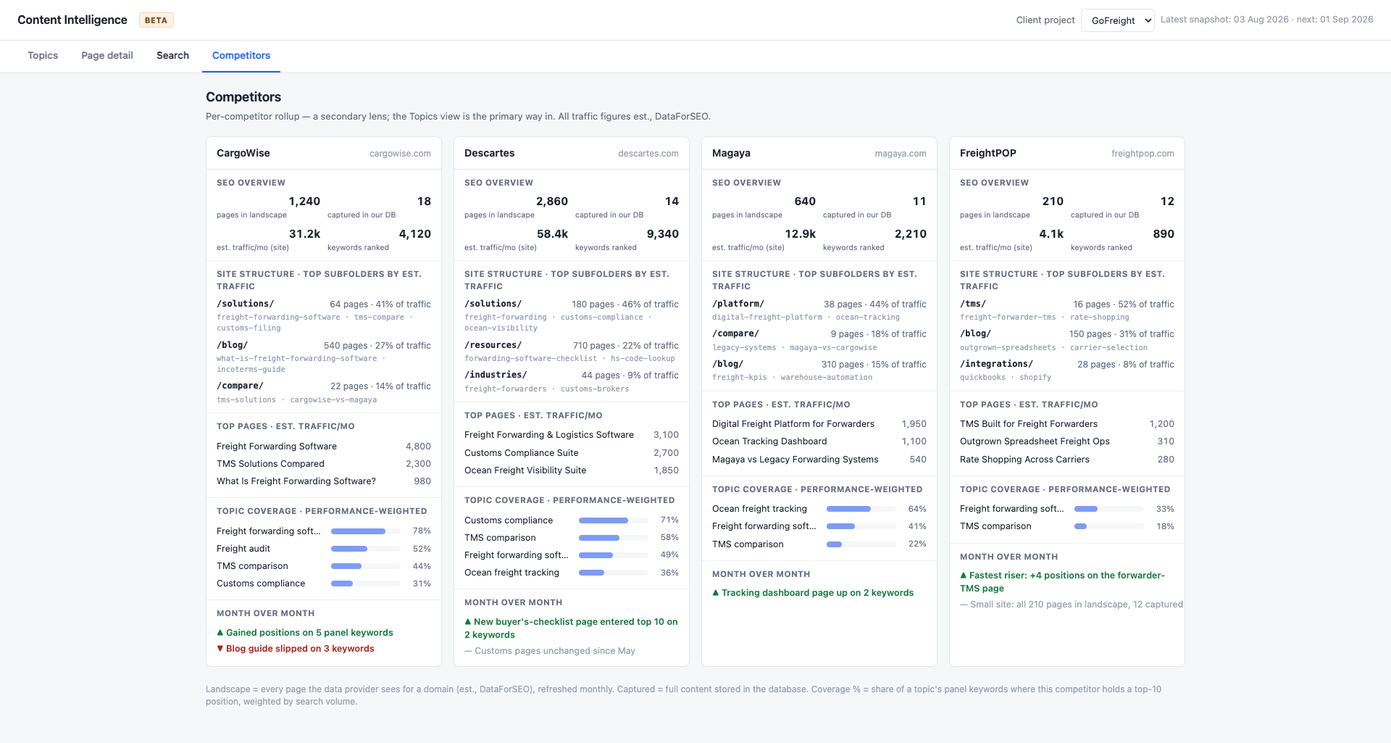
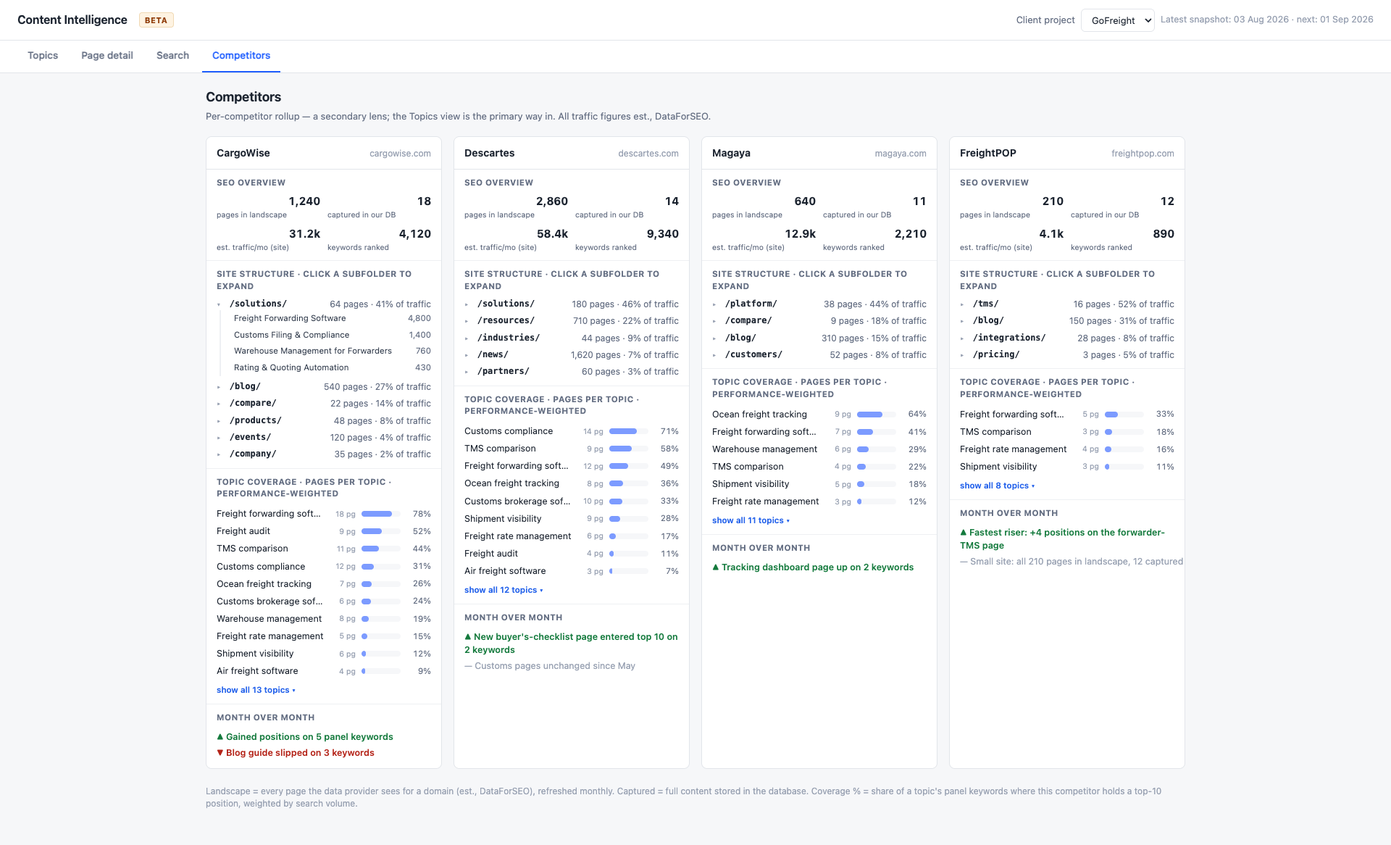
Rev 6.3b: competitor card refit — expandable site structure w/ page titles, topic coverage to ~10 w/ counts + show-all, top-pages block removed

diff --git a/novastacks/content-intelligence/mockup/ui-mockup.html b/novastacks/content-intelligence/mockup/ui-mockup.html
@@ -238,10 +238,18 @@
   .seo-grid { display: grid; grid-template-columns: 1fr 1fr; gap: 8px 10px; }
   .seo-grid .cell .num { display: block; font-size: 15px; font-weight: 700; }
   .seo-grid .cell .k { display: block; font-size: 10.5px; color: var(--muted); }
-  .folder-row { display: flex; justify-content: space-between; gap: 8px; margin-top: 7px; font-size: 12px; }
-  .folder-row .f { font-family: ui-monospace, monospace; font-weight: 650; }
-  .folder-row .fc { color: var(--muted); white-space: nowrap; }
-  .slugs { font-family: ui-monospace, monospace; font-size: 10.5px; color: var(--faint); margin-top: 2px; overflow-wrap: anywhere; }
+  .bar-row .cnt { color: var(--faint); font-size: 10.5px; white-space: nowrap; min-width: 34px; text-align: right; }
+  details.folder { margin-top: 6px; }
+  details.folder summary { display: flex; justify-content: space-between; gap: 8px; font-size: 12px; cursor: pointer; list-style: none; }
+  details.folder summary::before { content: "▸"; color: var(--faint); margin-right: 4px; }
+  details.folder[open] summary::before { content: "▾"; }
+  details.folder summary .f { font-family: ui-monospace, monospace; font-weight: 650; flex: 1; }
+  details.folder summary .fc { color: var(--muted); white-space: nowrap; }
+  .fpage { display: flex; justify-content: space-between; gap: 8px; font-size: 11.5px; padding: 3px 0 3px 18px; border-left: 2px solid #eef0f3; margin-left: 4px; }
+  .fpage .pt { color: #374151; }
+  .fpage .pv { color: var(--muted); white-space: nowrap; }
+  details.more-topics summary { font-size: 11.5px; font-weight: 600; color: #2563eb; cursor: pointer; list-style: none; margin-top: 6px; }
+  details.more-topics[open] summary { display: none; }
   .comp-sec { padding: 10px 14px; border-bottom: 1px solid #eef0f3; }
   .comp-sec:last-child { border-bottom: none; }
   .comp-sec h4 { font-size: 11.5px; color: var(--muted); text-transform: uppercase; letter-spacing: 0.04em; margin-bottom: 7px; }
@@ -560,26 +568,46 @@
         </div>
       </div>
       <div class="comp-sec">
-        <h4>Site structure · top subfolders by est. traffic</h4>
-        <div class="folder-row"><span class="f">/solutions/</span><span class="fc">64 pages · 41% of traffic</span></div>
-        <div class="slugs">freight-forwarding-software · tms-compare · customs-filing</div>
-        <div class="folder-row"><span class="f">/blog/</span><span class="fc">540 pages · 27% of traffic</span></div>
-        <div class="slugs">what-is-freight-forwarding-software · incoterms-guide</div>
-        <div class="folder-row"><span class="f">/compare/</span><span class="fc">22 pages · 14% of traffic</span></div>
-        <div class="slugs">tms-solutions · cargowise-vs-magaya</div>
+        <h4>Site structure · click a subfolder to expand</h4>
+        <details class="folder" open>
+          <summary><span class="f">/solutions/</span><span class="fc">64 pages · 41% of traffic</span></summary>
+          <div class="fpage"><span class="pt">Freight Forwarding Software</span><span class="pv">4,800</span></div>
+          <div class="fpage"><span class="pt">Customs Filing &amp; Compliance</span><span class="pv">1,400</span></div>
+          <div class="fpage"><span class="pt">Warehouse Management for Forwarders</span><span class="pv">760</span></div>
+          <div class="fpage"><span class="pt">Rating &amp; Quoting Automation</span><span class="pv">430</span></div>
+        </details>
+        <details class="folder">
+          <summary><span class="f">/blog/</span><span class="fc">540 pages · 27% of traffic</span></summary>
+          <div class="fpage"><span class="pt">What Is Freight Forwarding Software? A Guide</span><span class="pv">980</span></div>
+          <div class="fpage"><span class="pt">Incoterms 2026: The Complete Guide</span><span class="pv">720</span></div>
+        </details>
+        <details class="folder">
+          <summary><span class="f">/compare/</span><span class="fc">22 pages · 14% of traffic</span></summary>
+          <div class="fpage"><span class="pt">TMS Solutions Compared</span><span class="pv">2,300</span></div>
+          <div class="fpage"><span class="pt">CargoWise vs Magaya</span><span class="pv">610</span></div>
+        </details>
+        <details class="folder"><summary><span class="f">/products/</span><span class="fc">48 pages · 8% of traffic</span></summary><div class="fpage"><span class="pt">CargoWise One Platform</span><span class="pv">390</span></div></details>
+        <details class="folder"><summary><span class="f">/events/</span><span class="fc">120 pages · 4% of traffic</span></summary><div class="fpage"><span class="pt">CargoWise Horizons 2026</span><span class="pv">180</span></div></details>
+        <details class="folder"><summary><span class="f">/company/</span><span class="fc">35 pages · 2% of traffic</span></summary><div class="fpage"><span class="pt">About WiseTech Global</span><span class="pv">95</span></div></details>
       </div>
       <div class="comp-sec">
-        <h4>Top pages · est. traffic/mo</h4>
-        <div class="mini-row"><span class="t">Freight Forwarding Software</span><span class="v">4,800</span></div>
-        <div class="mini-row"><span class="t">TMS Solutions Compared</span><span class="v">2,300</span></div>
-        <div class="mini-row"><span class="t">What Is Freight Forwarding Software?</span><span class="v">980</span></div>
-      </div>
-      <div class="comp-sec">
-        <h4>Topic coverage · performance-weighted</h4>
-        <div class="bar-row"><span class="lbl">Freight forwarding software</span><span class="bar"><i style="width:78%"></i></span><span class="pct">78%</span></div>
-        <div class="bar-row"><span class="lbl">Freight audit</span><span class="bar"><i style="width:52%"></i></span><span class="pct">52%</span></div>
-        <div class="bar-row"><span class="lbl">TMS comparison</span><span class="bar"><i style="width:44%"></i></span><span class="pct">44%</span></div>
-        <div class="bar-row"><span class="lbl">Customs compliance</span><span class="bar"><i style="width:31%"></i></span><span class="pct">31%</span></div>
+        <h4>Topic coverage · pages per topic · performance-weighted</h4>
+        <div class="bar-row"><span class="lbl">Freight forwarding software</span><span class="cnt">18 pg</span><span class="bar"><i style="width:78%"></i></span><span class="pct">78%</span></div>
+        <div class="bar-row"><span class="lbl">Freight audit</span><span class="cnt">9 pg</span><span class="bar"><i style="width:52%"></i></span><span class="pct">52%</span></div>
+        <div class="bar-row"><span class="lbl">TMS comparison</span><span class="cnt">11 pg</span><span class="bar"><i style="width:44%"></i></span><span class="pct">44%</span></div>
+        <div class="bar-row"><span class="lbl">Customs compliance</span><span class="cnt">12 pg</span><span class="bar"><i style="width:31%"></i></span><span class="pct">31%</span></div>
+        <div class="bar-row"><span class="lbl">Ocean freight tracking</span><span class="cnt">7 pg</span><span class="bar"><i style="width:26%"></i></span><span class="pct">26%</span></div>
+        <div class="bar-row"><span class="lbl">Customs brokerage software</span><span class="cnt">6 pg</span><span class="bar"><i style="width:24%"></i></span><span class="pct">24%</span></div>
+        <div class="bar-row"><span class="lbl">Warehouse management</span><span class="cnt">8 pg</span><span class="bar"><i style="width:19%"></i></span><span class="pct">19%</span></div>
+        <div class="bar-row"><span class="lbl">Freight rate management</span><span class="cnt">5 pg</span><span class="bar"><i style="width:15%"></i></span><span class="pct">15%</span></div>
+        <div class="bar-row"><span class="lbl">Shipment visibility</span><span class="cnt">6 pg</span><span class="bar"><i style="width:12%"></i></span><span class="pct">12%</span></div>
+        <div class="bar-row"><span class="lbl">Air freight software</span><span class="cnt">4 pg</span><span class="bar"><i style="width:9%"></i></span><span class="pct">9%</span></div>
+        <details class="more-topics">
+          <summary>show all 13 topics ▾</summary>
+          <div class="bar-row"><span class="lbl">Freight billing software</span><span class="cnt">3 pg</span><span class="bar"><i style="width:7%"></i></span><span class="pct">7%</span></div>
+          <div class="bar-row"><span class="lbl">Landed cost calculation</span><span class="cnt">2 pg</span><span class="bar"><i style="width:5%"></i></span><span class="pct">5%</span></div>
+          <div class="bar-row"><span class="lbl">Bonded warehouse software</span><span class="cnt">2 pg</span><span class="bar"><i style="width:3%"></i></span><span class="pct">3%</span></div>
+        </details>
       </div>
       <div class="comp-sec">
         <h4>Month over month</h4>
@@ -600,26 +628,39 @@
         </div>
       </div>
       <div class="comp-sec">
-        <h4>Site structure · top subfolders by est. traffic</h4>
-        <div class="folder-row"><span class="f">/solutions/</span><span class="fc">180 pages · 46% of traffic</span></div>
-        <div class="slugs">freight-forwarding · customs-compliance · ocean-visibility</div>
-        <div class="folder-row"><span class="f">/resources/</span><span class="fc">710 pages · 22% of traffic</span></div>
-        <div class="slugs">forwarding-software-checklist · hs-code-lookup</div>
-        <div class="folder-row"><span class="f">/industries/</span><span class="fc">44 pages · 9% of traffic</span></div>
-        <div class="slugs">freight-forwarders · customs-brokers</div>
+        <h4>Site structure · click a subfolder to expand</h4>
+        <details class="folder">
+          <summary><span class="f">/solutions/</span><span class="fc">180 pages · 46% of traffic</span></summary>
+          <div class="fpage"><span class="pt">Freight Forwarding &amp; Logistics Software</span><span class="pv">3,100</span></div>
+          <div class="fpage"><span class="pt">Customs Compliance Suite</span><span class="pv">2,700</span></div>
+          <div class="fpage"><span class="pt">Ocean Freight Visibility Suite</span><span class="pv">1,850</span></div>
+        </details>
+        <details class="folder">
+          <summary><span class="f">/resources/</span><span class="fc">710 pages · 22% of traffic</span></summary>
+          <div class="fpage"><span class="pt">Choosing Forwarding Software: Buyer's Checklist</span><span class="pv">720</span></div>
+          <div class="fpage"><span class="pt">HS Code Lookup Tool</span><span class="pv">640</span></div>
+        </details>
+        <details class="folder"><summary><span class="f">/industries/</span><span class="fc">44 pages · 9% of traffic</span></summary><div class="fpage"><span class="pt">Solutions for Freight Forwarders</span><span class="pv">410</span></div></details>
+        <details class="folder"><summary><span class="f">/news/</span><span class="fc">1,620 pages · 7% of traffic</span></summary><div class="fpage"><span class="pt">Descartes Acquires OCR Vision Co</span><span class="pv">120</span></div></details>
+        <details class="folder"><summary><span class="f">/partners/</span><span class="fc">60 pages · 3% of traffic</span></summary><div class="fpage"><span class="pt">Partner Directory</span><span class="pv">85</span></div></details>
       </div>
       <div class="comp-sec">
-        <h4>Top pages · est. traffic/mo</h4>
-        <div class="mini-row"><span class="t">Freight Forwarding &amp; Logistics Software</span><span class="v">3,100</span></div>
-        <div class="mini-row"><span class="t">Customs Compliance Suite</span><span class="v">2,700</span></div>
-        <div class="mini-row"><span class="t">Ocean Freight Visibility Suite</span><span class="v">1,850</span></div>
-      </div>
-      <div class="comp-sec">
-        <h4>Topic coverage · performance-weighted</h4>
-        <div class="bar-row"><span class="lbl">Customs compliance</span><span class="bar"><i style="width:71%"></i></span><span class="pct">71%</span></div>
-        <div class="bar-row"><span class="lbl">TMS comparison</span><span class="bar"><i style="width:58%"></i></span><span class="pct">58%</span></div>
-        <div class="bar-row"><span class="lbl">Freight forwarding software</span><span class="bar"><i style="width:49%"></i></span><span class="pct">49%</span></div>
-        <div class="bar-row"><span class="lbl">Ocean freight tracking</span><span class="bar"><i style="width:36%"></i></span><span class="pct">36%</span></div>
+        <h4>Topic coverage · pages per topic · performance-weighted</h4>
+        <div class="bar-row"><span class="lbl">Customs compliance</span><span class="cnt">14 pg</span><span class="bar"><i style="width:71%"></i></span><span class="pct">71%</span></div>
+        <div class="bar-row"><span class="lbl">TMS comparison</span><span class="cnt">9 pg</span><span class="bar"><i style="width:58%"></i></span><span class="pct">58%</span></div>
+        <div class="bar-row"><span class="lbl">Freight forwarding software</span><span class="cnt">12 pg</span><span class="bar"><i style="width:49%"></i></span><span class="pct">49%</span></div>
+        <div class="bar-row"><span class="lbl">Ocean freight tracking</span><span class="cnt">8 pg</span><span class="bar"><i style="width:36%"></i></span><span class="pct">36%</span></div>
+        <div class="bar-row"><span class="lbl">Customs brokerage software</span><span class="cnt">10 pg</span><span class="bar"><i style="width:33%"></i></span><span class="pct">33%</span></div>
+        <div class="bar-row"><span class="lbl">Shipment visibility</span><span class="cnt">9 pg</span><span class="bar"><i style="width:28%"></i></span><span class="pct">28%</span></div>
+        <div class="bar-row"><span class="lbl">Freight rate management</span><span class="cnt">6 pg</span><span class="bar"><i style="width:17%"></i></span><span class="pct">17%</span></div>
+        <div class="bar-row"><span class="lbl">Freight audit</span><span class="cnt">4 pg</span><span class="bar"><i style="width:11%"></i></span><span class="pct">11%</span></div>
+        <div class="bar-row"><span class="lbl">Air freight software</span><span class="cnt">3 pg</span><span class="bar"><i style="width:7%"></i></span><span class="pct">7%</span></div>
+        <details class="more-topics">
+          <summary>show all 12 topics ▾</summary>
+          <div class="bar-row"><span class="lbl">Warehouse management</span><span class="cnt">3 pg</span><span class="bar"><i style="width:6%"></i></span><span class="pct">6%</span></div>
+          <div class="bar-row"><span class="lbl">Landed cost calculation</span><span class="cnt">2 pg</span><span class="bar"><i style="width:4%"></i></span><span class="pct">4%</span></div>
+          <div class="bar-row"><span class="lbl">Freight billing software</span><span class="cnt">1 pg</span><span class="bar"><i style="width:2%"></i></span><span class="pct">2%</span></div>
+        </details>
       </div>
       <div class="comp-sec">
         <h4>Month over month</h4>
@@ -640,25 +681,32 @@
         </div>
       </div>
       <div class="comp-sec">
-        <h4>Site structure · top subfolders by est. traffic</h4>
-        <div class="folder-row"><span class="f">/platform/</span><span class="fc">38 pages · 44% of traffic</span></div>
-        <div class="slugs">digital-freight-platform · ocean-tracking</div>
-        <div class="folder-row"><span class="f">/compare/</span><span class="fc">9 pages · 18% of traffic</span></div>
-        <div class="slugs">legacy-systems · magaya-vs-cargowise</div>
-        <div class="folder-row"><span class="f">/blog/</span><span class="fc">310 pages · 15% of traffic</span></div>
-        <div class="slugs">freight-kpis · warehouse-automation</div>
+        <h4>Site structure · click a subfolder to expand</h4>
+        <details class="folder">
+          <summary><span class="f">/platform/</span><span class="fc">38 pages · 44% of traffic</span></summary>
+          <div class="fpage"><span class="pt">Digital Freight Platform for Forwarders</span><span class="pv">1,950</span></div>
+          <div class="fpage"><span class="pt">Ocean Tracking Dashboard</span><span class="pv">1,100</span></div>
+        </details>
+        <details class="folder"><summary><span class="f">/compare/</span><span class="fc">9 pages · 18% of traffic</span></summary><div class="fpage"><span class="pt">Magaya vs Legacy Forwarding Systems</span><span class="pv">540</span></div></details>
+        <details class="folder"><summary><span class="f">/blog/</span><span class="fc">310 pages · 15% of traffic</span></summary><div class="fpage"><span class="pt">Freight KPIs Every Forwarder Should Track</span><span class="pv">290</span></div></details>
+        <details class="folder"><summary><span class="f">/customers/</span><span class="fc">52 pages · 8% of traffic</span></summary><div class="fpage"><span class="pt">Case Study: 3PL Cuts Quoting Time 60%</span><span class="pv">140</span></div></details>
       </div>
       <div class="comp-sec">
-        <h4>Top pages · est. traffic/mo</h4>
-        <div class="mini-row"><span class="t">Digital Freight Platform for Forwarders</span><span class="v">1,950</span></div>
-        <div class="mini-row"><span class="t">Ocean Tracking Dashboard</span><span class="v">1,100</span></div>
-        <div class="mini-row"><span class="t">Magaya vs Legacy Forwarding Systems</span><span class="v">540</span></div>
-      </div>
-      <div class="comp-sec">
-        <h4>Topic coverage · performance-weighted</h4>
-        <div class="bar-row"><span class="lbl">Ocean freight tracking</span><span class="bar"><i style="width:64%"></i></span><span class="pct">64%</span></div>
-        <div class="bar-row"><span class="lbl">Freight forwarding software</span><span class="bar"><i style="width:41%"></i></span><span class="pct">41%</span></div>
-        <div class="bar-row"><span class="lbl">TMS comparison</span><span class="bar"><i style="width:22%"></i></span><span class="pct">22%</span></div>
+        <h4>Topic coverage · pages per topic · performance-weighted</h4>
+        <div class="bar-row"><span class="lbl">Ocean freight tracking</span><span class="cnt">9 pg</span><span class="bar"><i style="width:64%"></i></span><span class="pct">64%</span></div>
+        <div class="bar-row"><span class="lbl">Freight forwarding software</span><span class="cnt">7 pg</span><span class="bar"><i style="width:41%"></i></span><span class="pct">41%</span></div>
+        <div class="bar-row"><span class="lbl">Warehouse management</span><span class="cnt">6 pg</span><span class="bar"><i style="width:29%"></i></span><span class="pct">29%</span></div>
+        <div class="bar-row"><span class="lbl">TMS comparison</span><span class="cnt">4 pg</span><span class="bar"><i style="width:22%"></i></span><span class="pct">22%</span></div>
+        <div class="bar-row"><span class="lbl">Shipment visibility</span><span class="cnt">5 pg</span><span class="bar"><i style="width:18%"></i></span><span class="pct">18%</span></div>
+        <div class="bar-row"><span class="lbl">Freight rate management</span><span class="cnt">3 pg</span><span class="bar"><i style="width:12%"></i></span><span class="pct">12%</span></div>
+        <details class="more-topics">
+          <summary>show all 11 topics ▾</summary>
+          <div class="bar-row"><span class="lbl">Customs compliance</span><span class="cnt">3 pg</span><span class="bar"><i style="width:9%"></i></span><span class="pct">9%</span></div>
+          <div class="bar-row"><span class="lbl">Freight audit</span><span class="cnt">2 pg</span><span class="bar"><i style="width:6%"></i></span><span class="pct">6%</span></div>
+          <div class="bar-row"><span class="lbl">Customs brokerage software</span><span class="cnt">2 pg</span><span class="bar"><i style="width:5%"></i></span><span class="pct">5%</span></div>
+          <div class="bar-row"><span class="lbl">Air freight software</span><span class="cnt">1 pg</span><span class="bar"><i style="width:3%"></i></span><span class="pct">3%</span></div>
+          <div class="bar-row"><span class="lbl">Freight billing software</span><span class="cnt">1 pg</span><span class="bar"><i style="width:2%"></i></span><span class="pct">2%</span></div>
+        </details>
       </div>
       <div class="comp-sec">
         <h4>Month over month</h4>
@@ -678,24 +726,29 @@
         </div>
       </div>
       <div class="comp-sec">
-        <h4>Site structure · top subfolders by est. traffic</h4>
-        <div class="folder-row"><span class="f">/tms/</span><span class="fc">16 pages · 52% of traffic</span></div>
-        <div class="slugs">freight-forwarder-tms · rate-shopping</div>
-        <div class="folder-row"><span class="f">/blog/</span><span class="fc">150 pages · 31% of traffic</span></div>
-        <div class="slugs">outgrown-spreadsheets · carrier-selection</div>
-        <div class="folder-row"><span class="f">/integrations/</span><span class="fc">28 pages · 8% of traffic</span></div>
-        <div class="slugs">quickbooks · shopify</div>
+        <h4>Site structure · click a subfolder to expand</h4>
+        <details class="folder">
+          <summary><span class="f">/tms/</span><span class="fc">16 pages · 52% of traffic</span></summary>
+          <div class="fpage"><span class="pt">TMS Built for Freight Forwarders</span><span class="pv">1,200</span></div>
+          <div class="fpage"><span class="pt">Rate Shopping Across Carriers</span><span class="pv">280</span></div>
+        </details>
+        <details class="folder"><summary><span class="f">/blog/</span><span class="fc">150 pages · 31% of traffic</span></summary><div class="fpage"><span class="pt">5 Signs You've Outgrown Spreadsheet Freight Ops</span><span class="pv">310</span></div></details>
+        <details class="folder"><summary><span class="f">/integrations/</span><span class="fc">28 pages · 8% of traffic</span></summary><div class="fpage"><span class="pt">QuickBooks Integration</span><span class="pv">110</span></div></details>
+        <details class="folder"><summary><span class="f">/pricing/</span><span class="fc">3 pages · 5% of traffic</span></summary><div class="fpage"><span class="pt">FreightPOP Pricing</span><span class="pv">95</span></div></details>
       </div>
       <div class="comp-sec">
-        <h4>Top pages · est. traffic/mo</h4>
-        <div class="mini-row"><span class="t">TMS Built for Freight Forwarders</span><span class="v">1,200</span></div>
-        <div class="mini-row"><span class="t">Outgrown Spreadsheet Freight Ops</span><span class="v">310</span></div>
-        <div class="mini-row"><span class="t">Rate Shopping Across Carriers</span><span class="v">280</span></div>
-      </div>
-      <div class="comp-sec">
-        <h4>Topic coverage · performance-weighted</h4>
-        <div class="bar-row"><span class="lbl">Freight forwarding software</span><span class="bar"><i style="width:33%"></i></span><span class="pct">33%</span></div>
-        <div class="bar-row"><span class="lbl">TMS comparison</span><span class="bar"><i style="width:18%"></i></span><span class="pct">18%</span></div>
+        <h4>Topic coverage · pages per topic · performance-weighted</h4>
+        <div class="bar-row"><span class="lbl">Freight forwarding software</span><span class="cnt">5 pg</span><span class="bar"><i style="width:33%"></i></span><span class="pct">33%</span></div>
+        <div class="bar-row"><span class="lbl">TMS comparison</span><span class="cnt">3 pg</span><span class="bar"><i style="width:18%"></i></span><span class="pct">18%</span></div>
+        <div class="bar-row"><span class="lbl">Freight rate management</span><span class="cnt">4 pg</span><span class="bar"><i style="width:16%"></i></span><span class="pct">16%</span></div>
+        <div class="bar-row"><span class="lbl">Shipment visibility</span><span class="cnt">3 pg</span><span class="bar"><i style="width:11%"></i></span><span class="pct">11%</span></div>
+        <details class="more-topics">
+          <summary>show all 8 topics ▾</summary>
+          <div class="bar-row"><span class="lbl">Freight audit</span><span class="cnt">2 pg</span><span class="bar"><i style="width:7%"></i></span><span class="pct">7%</span></div>
+          <div class="bar-row"><span class="lbl">Warehouse management</span><span class="cnt">1 pg</span><span class="bar"><i style="width:4%"></i></span><span class="pct">4%</span></div>
+          <div class="bar-row"><span class="lbl">Ocean freight tracking</span><span class="cnt">1 pg</span><span class="bar"><i style="width:3%"></i></span><span class="pct">3%</span></div>
+          <div class="bar-row"><span class="lbl">Customs compliance</span><span class="cnt">1 pg</span><span class="bar"><i style="width:2%"></i></span><span class="pct">2%</span></div>
+        </details>
       </div>
       <div class="comp-sec">
         <h4>Month over month</h4>

diff --git a/novastacks/content-intelligence/PRD.md b/novastacks/content-intelligence/PRD.md
@@ -94,13 +94,13 @@ P0 = system is wrong without it · P1 = core value, ships in v1 · P2 = v1 if ti
 | FR-21 | P0 | Failed-capture pages reported "not captured" — never described, never inferred | Analysis over the dead-URL fixture names it as not captured |
 | FR-22 | P1 | Counts, URL lists, change lists come from SQL, never from asking an LLM to count; analysis prompts used per project are saved in the repo and reused on the next run | Numeric statements match direct query results; month-2 analysis references month-1's saved prompt file |
 | FR-23 | P1 | **Landscape storage, mapped to client topics:** monthly API data stored per competitor domain — every page with est. traffic and its ranked keywords, each keyword assigned to a CLIENT topic by the client's tracked panel's own grouping (deterministic; no LLM); out-of-panel keywords land in an `unmapped` bucket, never force-matched; a URL may map to multiple topics, weighted by position × search volume. Per-topic page **importance** is queryable: positions on the topic's keywords, est. traffic, breadth (how many of the topic's keywords the page ranks for) | For any client topic-month: competitor pages ranked by importance answerable by SQL; mapping reproducible from stored keywords + panel; unmapped bucket present and queryable |
-| FR-24 | P1 | **Topic-first bird's-eye UI:** client topic list → per-topic competitor page table (importance-sorted, capture status shown, one-click/one-command topic capture for uncaptured pages via FR-26) → drill-down into captured versions. Per-competitor view (top pages, topic coverage, MoM shifts) is the secondary lens. All figures labeled `est., <provider>` | From the topic list, two clicks reach an importance-sorted competitor page table and a third opens a captured version; uncaptured rows expose the capture trigger; no unlabeled figures |
+| FR-24 | P1 | **Topic-first bird's-eye UI:** client topic list → per-topic competitor page table (importance-sorted, capture status shown, one-click/one-command topic capture for uncaptured pages via FR-26) → drill-down into captured versions. Per-competitor view (SEO overview, expandable site structure, topic coverage with page counts, MoM shifts) is the secondary lens. All figures labeled `est., <provider>` | From the topic list, two clicks reach an importance-sorted competitor page table and a third opens a captured version; uncaptured rows expose the capture trigger; no unlabeled figures |
 | FR-25 | P0 | **Evidence rule (coverage):** claims about what a competitor focuses on / what's winning cite the landscape dataset — never generalized from captured-page samples. (Rationale: on-demand scraping is a narrow sample; generalizing from it is how hallucinated competitor claims happen.) | Spot-audit: every coverage claim cites landscape rows labeled `est., <provider>` |
 | FR-26 | P1 | **Topic-triggered capture (Path C):** a topic question → the landscape's per-topic importance ranking (FR-23) yields the short list (~10–20) of top competing URLs → Playwright captures just those, tagged with the topic as `capture_purpose`. Caveat: pages ranking for nothing are invisible to topic queries; the refresh's citation signal + strategic URL patterns are the backstop | Topic run captures ≈10–20 pages, all tagged with the topic; no site-wide crawl occurs; captured pages reusable via `lookup` |
 | FR-27 | P0 | **Evidence rule (rank causes):** topic analyses report observable content attributes (structure, depth, coverage of the topic's queries, E-E-A-T signals) and available off-page data points (e.g. referring domains from the provider) — never a definitive causal "why they rank." Outputs are framed as "what the winning pages have that ours don't" | Spot-audit of a topic analysis finds zero unqualified causal rank claims; every attribute cited to a stored version or landscape/provider row |
 | FR-28 | P1 | **Human topic curation (pipelines propose, humans decide):** in the Topics view a human can (a) define a new topic and assign panel keywords to it, (b) set each topic's business value (HIGH/MED/LOW — drives topic ordering and capture depth), (c) review system-suggested topics — deterministic clustering of the `unmapped` keyword bucket proposes candidates with evidence (keyword count, which competitors rank) and the human approves or dismisses; nothing enters the topic list without an explicit approve | Suggested topic appears with evidence chips + Approve/Dismiss; approving moves its keywords out of `unmapped`; dismissing suppresses the suggestion; value changes reorder the topic list |
 | FR-29 | P1 | **On-demand page refresh:** every page view shows the stored version's age ("stored version is N days old — live page may differ") and a "Refresh content now" action (UI button + CLI op) that recaptures the page immediately through the normal capture path, creating a new version with `source: manual_refresh`; history is never replaced | Refresh on a fixture page creates a new version row with `manual_refresh` provenance; the old version remains; the staleness note shows the correct age |
-| FR-30 | P1 | **Per-competitor SEO overview + site structure** (derived from landscape data already fetched — no new API calls): pages in landscape, pages captured in our DB, est. site traffic/mo, keywords ranked; site structure aggregated by first URL path segment — per subfolder: page count, share of est. traffic, top URL slugs | Competitor view shows the four overview numbers and a subfolder table whose totals reconcile with the landscape rows by SQL; all traffic figures labeled `est., <provider>` |
+| FR-30 | P1 | **Per-competitor SEO overview + site structure** (derived from landscape data already fetched — no new API calls): pages in landscape, pages captured in our DB, est. site traffic/mo, keywords ranked. Site structure = ALL subfolders (first URL path segment), each an expandable row (page count + share of est. traffic collapsed; expanded, the folder's pages with their actual titles and est. traffic). Topic coverage list shows up to ~10 topics by default with a per-topic competitor-page count, expandable to every topic — the bird's-eye is complete, never silently truncated | Competitor view shows the four overview numbers; every subfolder present and expandable to titled pages; topic list shows counts and expands to all topics; totals reconcile with the landscape rows by SQL; all traffic figures labeled `est., <provider>` |
 
 ## 6. Technical Design
 
